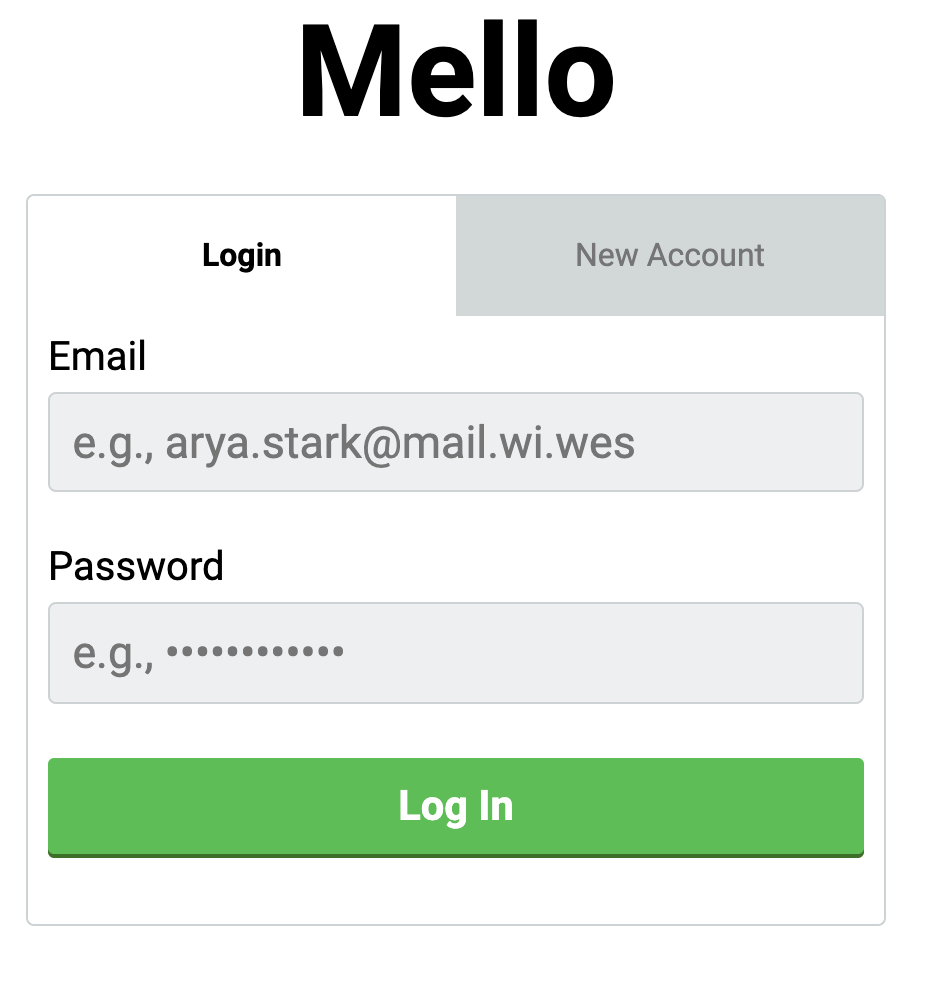
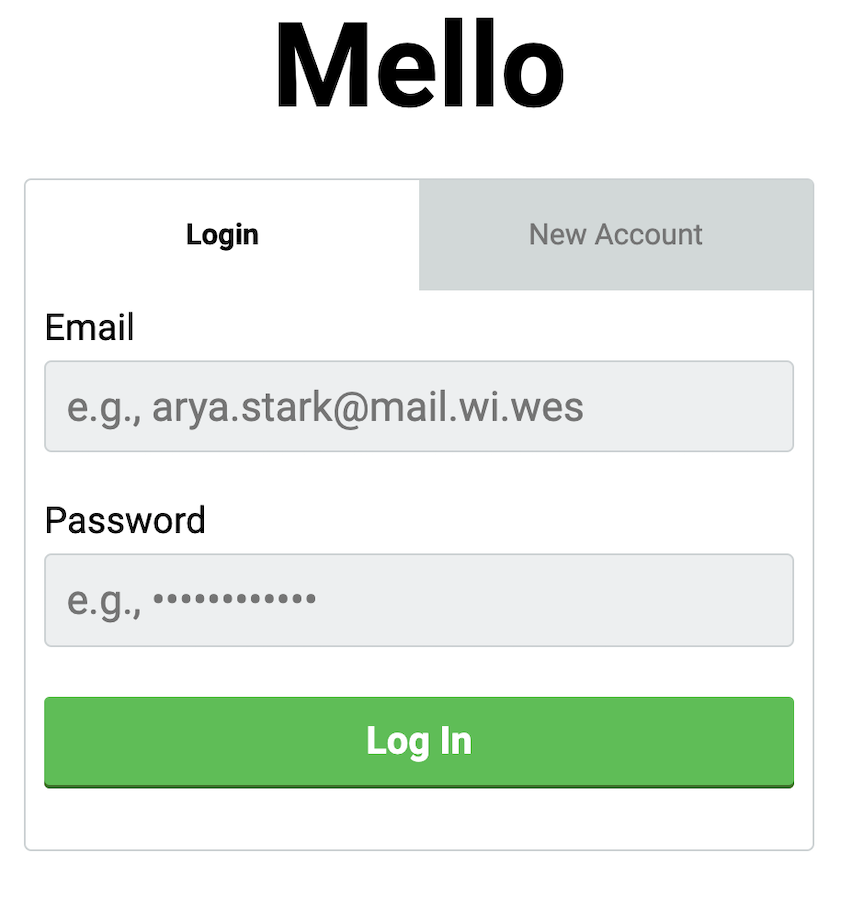
adjusting images on readme

diff --git a/README.md b/README.md
@@ -2,8 +2,8 @@
 
 This is a front-end version of Mello App that connects to a Rails back end. It has functionality for user authentication, adding multiple boards, board contributors and editing.
 
-![ScreenShot](screenshot.PNG)
-![ScreenShot](screenshot1.PNG)
+
+
 
 
 https://jhmello-rails.herokuapp.com
